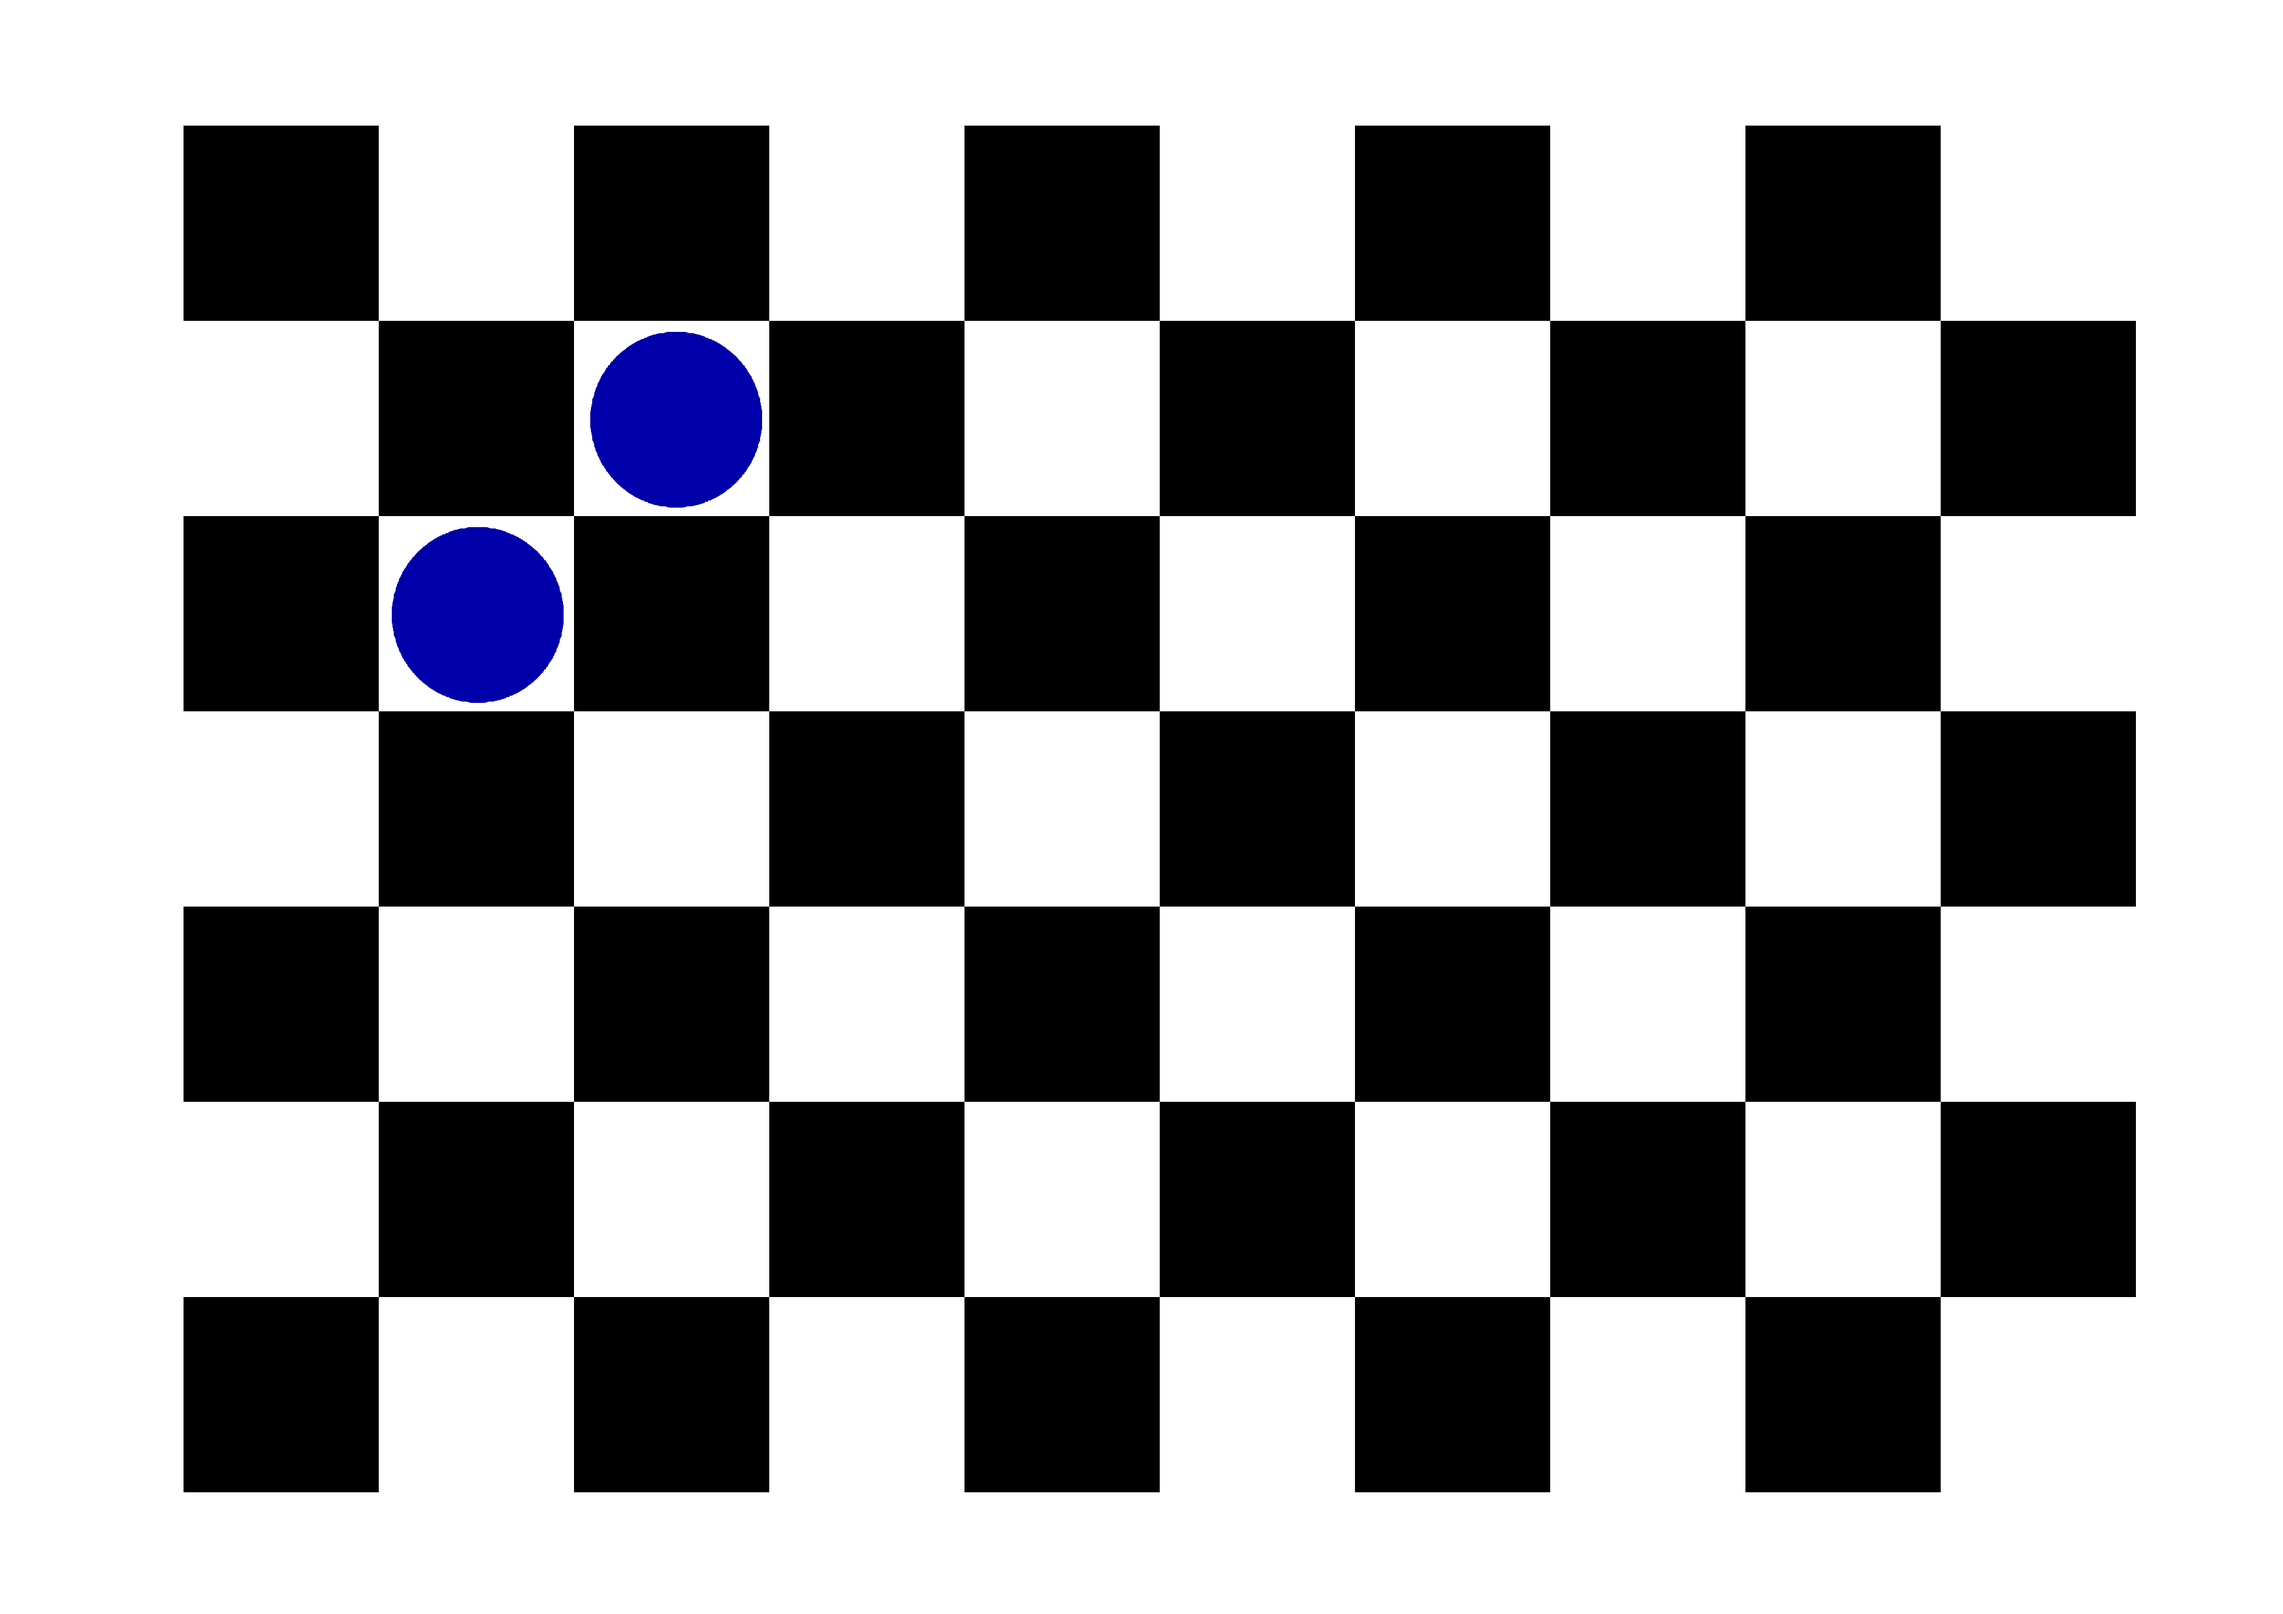
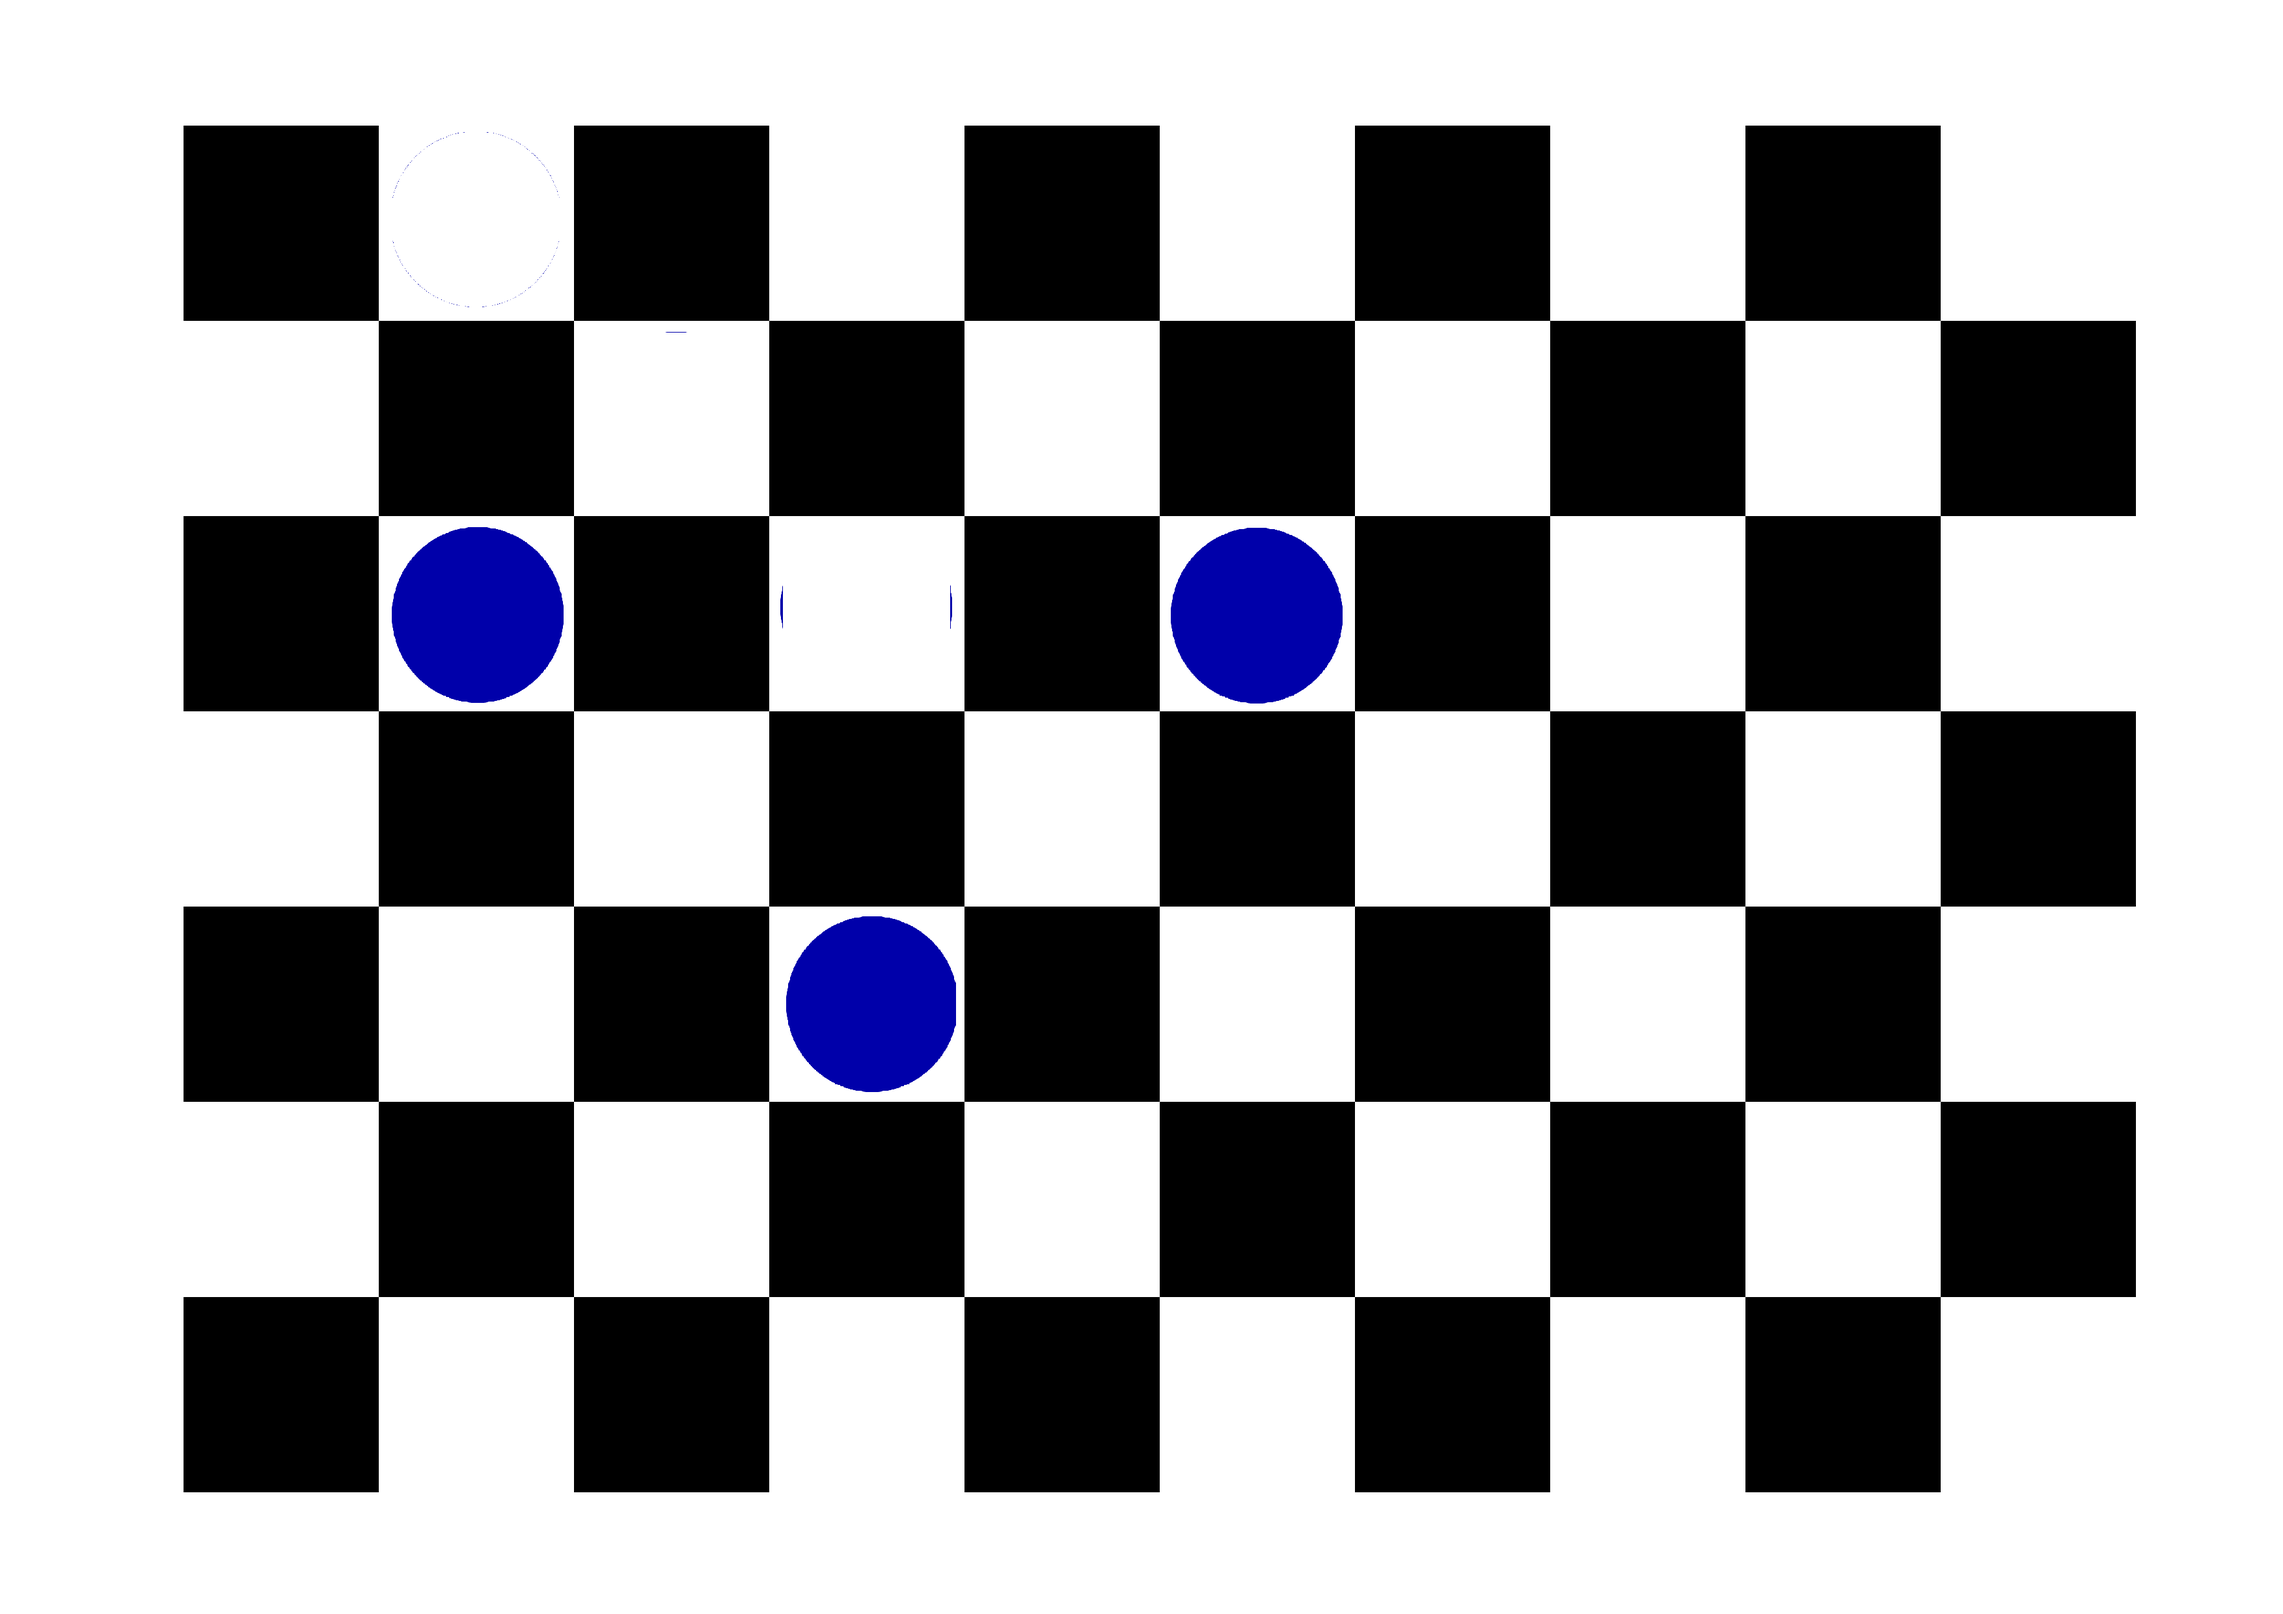
Drawing line around more than one circle

Changed region(s): [[0.4971, 0.3105, 0.5904, 0.4347], [0.3418, 0.5589, 0.435, 0.6831], [0.2486, 0.1863, 0.3418, 0.3105]]

diff --git a/CheckersDetector/src/sample/Controllers/MainController.java b/CheckersDetector/src/sample/Controllers/MainController.java
@@ -35,39 +35,41 @@ public class MainController {
 
     @FXML
     protected void startCamera() {
+        Image checkersBoardImage = new Image(new File("/Users/sot/Documents/workspace/PODSTAWY-TELEINFORMATYKI/CheckersDetector/checkersboard.png").toURI().toString());
+        checkersboardFrameView.setImage(checkersBoardImage);
         if (!calibrateCamera.isCameraActive()) {
 //            calibrateCamera.getCapture().open(0);
 //
 //            if (calibrateCamera.getCapture().isOpened()) {
-                calibrateCamera.setCameraActive(true);
+            calibrateCamera.setCameraActive(true);
 
-                TimerTask frameGrabber = new TimerTask() {
-                    @Override
-                    public void run() {
-                        Image checkersBoardImage = new Image(new File("/Users/sot/Documents/workspace/PODSTAWY-TELEINFORMATYKI/CheckersDetector/checkersboard.png").toURI().toString());
-                        checkersboardFrameView.setImage(checkersBoardImage);
-                        Mat frame = calibrateCamera.grabFrame();
-                        Image image = mat2Image(frame);
-                        Mat circleFrame = circleServices.findCircles(frame);
-                        Image circleImage = mat2Image(circleFrame);
-                        Platform.runLater(new Runnable() {
-                            @Override
-                            public void run() {
-                                originalFrameView.setImage(image);
-                                originalFrameView.setFitWidth(380);
-                                originalFrameView.setFitHeight(400);
-                                originalFrameView.setPreserveRatio(true);
-                                capturedCirclesFrameView.setImage(circleImage);
-                                capturedCirclesFrameView.setFitWidth(380);
-                                capturedCirclesFrameView.setFitHeight(400);
-                                capturedCirclesFrameView.setPreserveRatio(true);
-                            }
-                        });
+            TimerTask frameGrabber = new TimerTask() {
+                @Override
+                public void run() {
+                    Mat frame = calibrateCamera.grabFrame();
+                    Image image = mat2Image(frame);
+                    Mat circleFrame = circleServices.findCircles(frame);
+                    Image circleImage = mat2Image(circleFrame);
+                    Platform.runLater(new Runnable() {
+                        @Override
+                        public void run() {
 
-                    }
-                };
-                calibrateCamera.getTimer().schedule(frameGrabber, 0, 33);
-                this.startCameraButton.setText("Stop Camera");
+                            originalFrameView.setImage(image);
+                            originalFrameView.setFitWidth(380);
+                            originalFrameView.setFitHeight(400);
+                            originalFrameView.setPreserveRatio(true);
+
+                            capturedCirclesFrameView.setImage(circleImage);
+                            capturedCirclesFrameView.setFitWidth(380);
+                            capturedCirclesFrameView.setFitHeight(400);
+                            capturedCirclesFrameView.setPreserveRatio(true);
+                        }
+                    });
+
+                }
+            };
+            calibrateCamera.getTimer().schedule(frameGrabber, 0, 33);
+            this.startCameraButton.setText("Stop Camera");
 //            } else {
 //                System.err.println("Impossible to open the camera connection...");
 //            }

diff --git a/CheckersDetector/src/sample/Utilities/CircleServices.java b/CheckersDetector/src/sample/Utilities/CircleServices.java
@@ -24,14 +24,13 @@ public class CircleServices {
         Mat circles = new Mat();
         Vector<Mat> circlesList = new Vector<Mat>();
 
-        HoughCircles(srcGray, circles, Imgproc.CV_HOUGH_GRADIENT, 1, 60, 200, 20, 30, 0);
+        HoughCircles(srcGray, circles, CV_HOUGH_GRADIENT, 1, 30, 200, 50, 0, 0 );
         System.out.println("#rows " + circles.rows() + " #cols " + circles.cols());
-        double x = 0.0;
-        double y = 0.0;
-        int r = 0;
 
-        for (int i = 0; i < circles.rows(); i++) {
-            double[] data = circles.get(i, 0);
+        double x, y, r;
+        x = y = r = 0.0;
+        for (int i = 0; i < circles.cols(); i++) {
+            double[] data = circles.get(0, i);
             for (int j = 0; j < data.length; j++) {
                 x = data[0];
                 y = data[1];
@@ -39,7 +38,7 @@ public class CircleServices {
             }
             Point center = new Point(x, y);
             circle(src, center, 3, new Scalar(0, 255, 0), -1, 8, 0);
-            circle(src, center, r, new Scalar(0, 0, 255), 20, 8, 0);
+            circle(src, center, (int) r, new Scalar(0, 0, 255), 20, 8, 0);
         }
         System.out.println(circlesList);
         return src;
